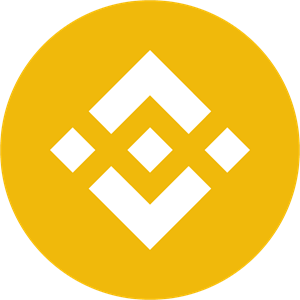
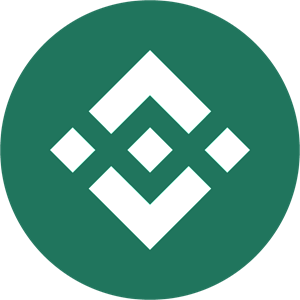
Added dynamic images

diff --git a/components/switchNetwork.vue b/components/switchNetwork.vue
@@ -5,7 +5,7 @@
       <span class="inline-block w-full rounded-md shadow-sm">
         <button type="button" @click="openDropdown" aria-haspopup="listbox" aria-expanded="true" aria-labelledby="listbox-label" class="cursor-pointer relative w-full rounded-md border border-gray-300 bg-white pl-3 pr-10 py-2 text-left focus:outline-none focus:shadow-outline-green focus:border-green-400 transition ease-in-out duration-150 sm:text-sm sm:leading-5">
           <div class="flex items-center space-x-3">
-            <img src="~/assets/img/network/bsc-mainnet.png" alt="" class="flex-shrink-0 h-6 w-6 rounded-full" />
+            <img :src="require(`~/assets/img/network/${network.img}`)" alt="" class="flex-shrink-0 h-6 w-6 rounded-full" />
             <span class="block truncate">
                {{ network.name }}
             </span>
@@ -24,7 +24,7 @@
 
           <li tabindex="0" @click="select(n)" id="listbox-item-0" role="option" v-for="n in networks" v-bind:key="n.id" class="text-gray-900 cursor-default select-none relative py-2 pl-3 pr-9  cursor-pointer hover:text-white hover:bg-green-400 focus:outline-none focus:text-white focus:bg-green-400">
             <div class="flex items-center space-x-3">
-              <img src="~/assets/img/network/bsc-mainnet.png" alt="" class="flex-shrink-0 h-6 w-6 rounded-full" />
+              <img :src="require(`~/assets/img/network/${n.img}`)" alt="" class="flex-shrink-0 h-6 w-6 rounded-full" />
               <span class="block truncate" v-bind:class="{ 'font-normal' : !isSelected(n) , 'font-semibold' : isSelected(n)}">
                 {{ n.name }}
               </span>

diff --git a/components/mainHeader.vue b/components/mainHeader.vue
@@ -21,8 +21,8 @@ export default {
   // Fill the networks (shouldn't be in the component.)
   async fetch() {
     const networkList = [
-      {id: 0, name:'BSC Mainnet', network:'bscmain'},
-      {id: 1, name:'BSC Testnet', network:'bsctest'}
+      {id: 0, name:'BSC Mainnet', img:'bsc-mainnet.png'},
+      {id: 1, name:'BSC Testnet', img:'bsc-testnet.png'}
     ];
     this.$store.commit('networks/setNetwork', networkList[0]);
     this.$store.commit('networks/setList', networkList);

diff --git a/README.md b/README.md
@@ -5,8 +5,9 @@ The DAPP will be able to show BNB balance on Testnet and Mainnet and connection 
 ## Todo
 - [x] Network select component
 - [x] Connect component
-- [ ] Dynamic image in network select
-- [ ] Link connect and network with state in vuex
+- [x] Dynamic image in network select
+- [x] Link network with state in vuex
+- [ ] Link Connect with state
 - [ ] add web3.js
 - [ ] Connect web3.js to state
 - [ ] Read BNB balance main net
